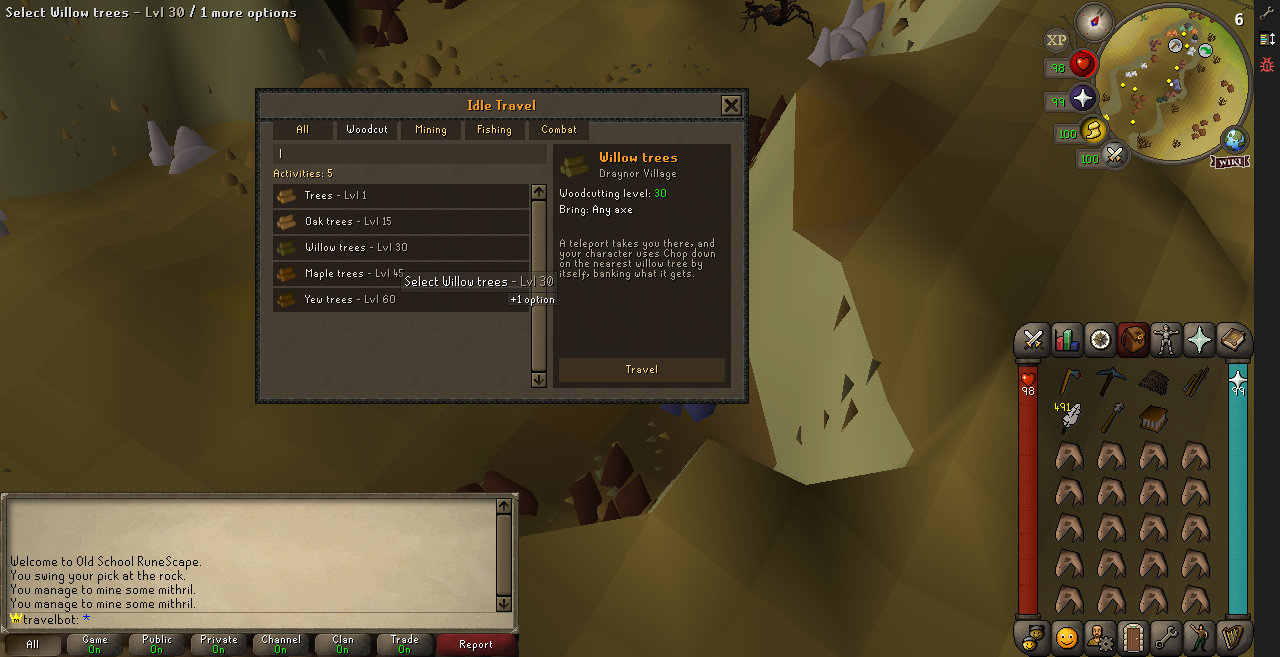
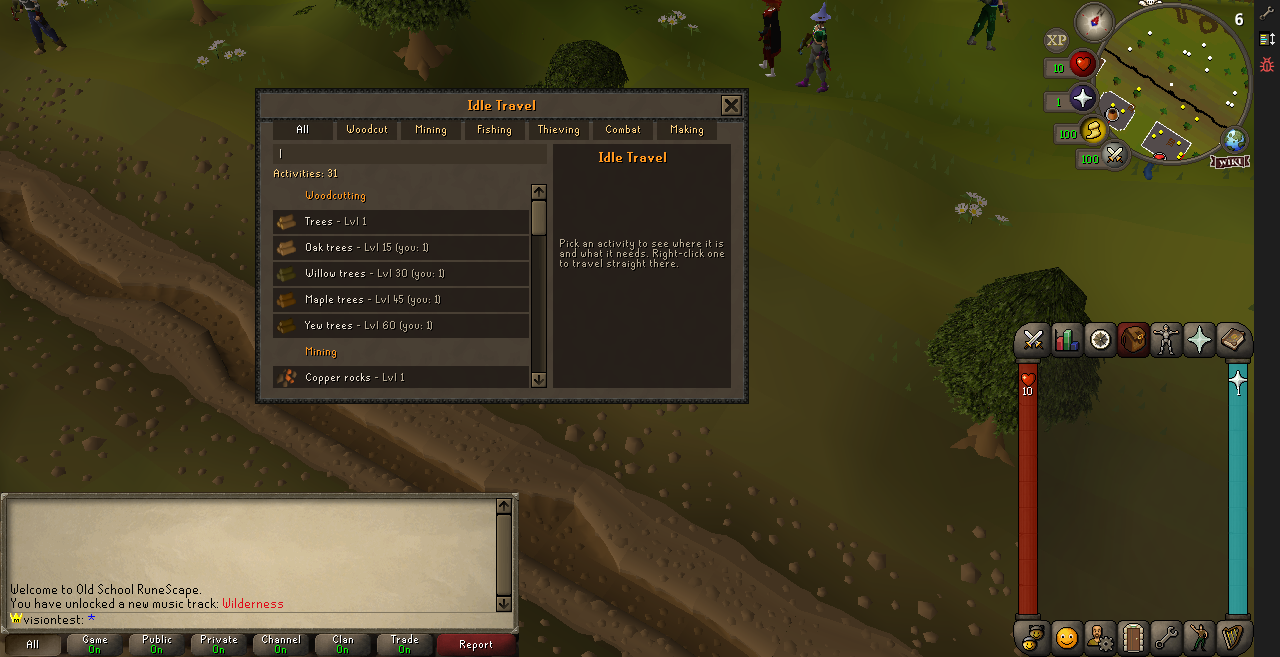
Idle Mode: thieving and firemaking
Thieving is an idle skill: stall thefts and pickpocket loot go to the bank
(coins with no pouch), stalls stay stocked and unwatched, thefts repeat,
and a pickpocketing character eats. Firemaking runs through production:
a line of fires that walks back to a free tile near its start, or a fed
fire that is lit again when it goes out. Five new travel sites and a
Thieving tab.

Claude-Session: https://claude.ai/code/session_018fqrB1SK5m6x8WbXcG8kg4

diff --git a/server/plugins/modes/idle/Production.IdleMode.js b/server/plugins/modes/idle/Production.IdleMode.js
@@ -19,7 +19,8 @@
  *
  * Firemaking makes nothing (`firemaking:success`, a log burnt, counts as a make of none): what the
  * restocks used is what it counts. Logs used on a fire tend it (a Forester's Campfire, `sameObjects`:
- * the fire changes name as it is fed). A tinderbox on logs lights one fire and steps off (a
+ * the fire changes name as it is fed); one tender alone can't keep it lit, so when it has gone out
+ * the character lights another with its tinderbox (`relight`) and feeds that. A tinderbox on logs lights one fire and steps off (a
  * `lineSkills` skill): the next follows as soon as the character stands still, and `lineTiles` from
  * where it started (or on a tile a fire is on) it walks back to a free tile there first.
  */
@@ -132,10 +133,14 @@ function sameObject(name, wanted) {
   return (config().sameObjects ?? []).some((names) => names.includes(name) && names.includes(wanted));
 }
 
+/** The skill's verbs: ["Making", "make"], ["Burning", "burn"] (`verbs`). */
+function verbs(target) {
+  return config().verbs?.[target.skill] ?? ["Making", "make"];
+}
+
 /** What the character is doing: "Making iron bars", "Burning logs". */
 function doing(target) {
-  const verb = config().verbs?.[target.skill] ?? "Making";
-  return `${verb} ${Common.itemName(target.productId).toLowerCase()}`;
+  return `${verbs(target)[0]} ${Common.itemName(target.productId).toLowerCase()}`;
 }
 
 function optionIndex(options, option) {
@@ -204,6 +209,26 @@ function restock(player, target) {
   return { used, missing };
 }
 
+/**
+ * A fire fed logs that has gone out (a campfire burns 3 ticks longer a log, tended every 9): with
+ * the skill's `relight` tool (a tinderbox) in the inventory, the character lights a new one with
+ * the same logs, and feeds that one next.
+ */
+function relight(player, target) {
+  const tool = Common.core.ItemIdentifiers?.[config().relight?.[target.skill]];
+  const toolSlot = Number.isInteger(tool) ? slotOf(player, tool) : -1;
+  const logSlot = slotOf(player, target.usedItemId);
+  if (toolSlot < 0 || logSlot < 0) return false;
+  Common.core.UseItemPacketListener.itemOnItem(player, toolSlot, logSlot);
+  ownUse(player);
+  return true;
+}
+
+/** The use just repeated is not a new one by hand: the target, and where it started, stay. */
+function ownUse(player) {
+  uses.delete(player);
+}
+
 /** Repeats the use as a click would; the creation menu it opens is answered on the next look. */
 function repeat(player, target) {
   const { UseItemPacketListener } = Common.core;
@@ -213,6 +238,7 @@ function repeat(player, target) {
       const withSlot = slotOf(player, target.withItemId);
       if (used < 0 || withSlot < 0) return false;
       UseItemPacketListener.itemOnItem(player, used, withSlot);
+      ownUse(player);
       return true;
     };
     if (!isLine(target) || lineGoesOn(player, target)) return use();
@@ -222,12 +248,13 @@ function repeat(player, target) {
     return true;
   }
   const object = findObject(player, target, target.kind === KIND.OBJECT_OPTION ? target.option : null);
-  if (!object) return false;
+  if (!object) return target.kind === KIND.ITEM_OBJECT && relight(player, target);
   const at = object.getLocation();
   if (target.kind === KIND.ITEM_OBJECT) {
     const slot = slotOf(player, target.usedItemId);
     if (slot < 0) return false;
     UseItemPacketListener.itemOnObject(player, target.interfaceType ?? 0, object.getId(), target.usedItemId, slot, at.getX(), at.getY());
+    ownUse(player);
     return true;
   }
   player.getMovementQueue().walkToObject(object, {
@@ -237,6 +264,7 @@ function repeat(player, target) {
         player, object, objectId: object.getId(), clickType: optionIndex(object.getDefinition().getInteractions(), target.option),
         location: { x: at.getX(), y: at.getY(), z: at.getZ() }, handled: false,
       });
+      ownUse(player);
     },
   });
   return true;
@@ -261,13 +289,13 @@ function lineGoesOn(player, target) {
   return Common.chebyshev(location, target.anchor) < config().lineTiles && !taken(location);
 }
 
-/** Where a line starts again: the first free tile by where it first started, row by row. */
+/** Where a line starts again: the first tile by where it first started, row by row, free to stand and light on. */
 function lineStart(target) {
-  const { Location } = Common.core;
+  const { Location, RegionManager } = Common.core;
   const { x, y, z } = target.anchor;
   for (const dy of [0, 1, -1, 2, -2, 3, -3]) {
     const tile = new Location(x, y + dy, z);
-    if (!taken(tile)) return tile;
+    if (!taken(tile) && RegionManager?.blocked?.(tile, null) !== true) return tile;
   }
   return null;
 }
@@ -331,12 +359,13 @@ function work(player, now) {
   state.chainAt = 0;
   const product = Common.itemName(target.productId).toLowerCase();
   if (state.lastAttemptAt > state.lastProducedAt && ++state.failedAttempts >= maxFailedAttempts) {
-    return pause(player, "stuck", `Idle production has paused: your character can't make ${product} here. Make one to restart it.`);
+    const verb = verbs(target)[1];
+    return pause(player, "stuck", `Idle production has paused: your character can't ${verb} ${product} here. ${verb.charAt(0).toUpperCase()}${verb.slice(1)} one by hand to restart it.`);
   }
   const { used, missing } = restock(player, target);
   Offline.consume(player, target.skill, used);
   if (missing !== null) {
-    return pause(player, "out", `Idle production has paused: you're out of ${Common.itemName(missing).toLowerCase()}. Bank some more and make one to restart it.`);
+    return pause(player, "out", `Idle production has paused: you're out of ${Common.itemName(missing).toLowerCase()}. Bank some more and ${verbs(target)[1]} one by hand to restart it.`);
   }
   if (!Common.readyToWork(player)) return "busy";
   state.lastAttemptAt = now;

diff --git a/server/plugins/modes/idle/Thieving.IdleMode.js b/server/plugins/modes/idle/Thieving.IdleMode.js
@@ -6,7 +6,9 @@
  * - a pickpocket's loot (`thieving:loot`) goes to the bank too, each item as a Thieving gather, so
  *   the offline progress, auto-resume, goals and Bountiful Harvest all count it; coins go straight
  *   in, with no coin pouch to open (and no rogue outfit doubling). Clues stay in the inventory;
- * - stalls stay stocked (`thieving:deplete-stall`);
+ * - stalls stay stocked (`thieving:deplete-stall`), and no owner or guard catches the thief
+ *   (`thieving:stall-watch`, `unseenAtStalls`): a character left alone would otherwise be
+ *   attacked by the guards it can't run from (East Ardougne's kill a low level);
  * - with auto-resume on, each theft that worked is followed by the next, a tick later, while the
  *   player stays put (`thieving:done`). A pickpocket that failed stuns: auto-resume picks it up
  *   after the stun (Auto);
@@ -51,6 +53,11 @@ function keepStall(event) {
   if (!event.handled && config().keepStalls && idleThief(event.player)) event.handled = true;
 }
 
+/** `thieving:stall-watch`: no owner or guard sees an idle thief. */
+function unseen(watch) {
+  if (!watch.unseen && config().unseenAtStalls && idleThief(watch.player)) watch.unseen = true;
+}
+
 /** `thieving:done`: a theft that worked is followed by the next, unless the character must eat first. */
 function again(event) {
   const { player } = event;
@@ -83,8 +90,9 @@ function health(player) {
 module.exports = function attach(api) {
   api.onCustomEvent("thieving:loot", loot);
   api.onCustomEvent("thieving:deplete-stall", keepStall);
+  api.onCustomEvent("thieving:stall-watch", unseen);
   api.onCustomEvent("thieving:done", again);
 };
 
 module.exports.health = health;
-module.exports.handlers = { loot, keepStall, again };
+module.exports.handlers = { loot, keepStall, unseen, again };

diff --git a/server/plugins/modes/IdleMode.plugin.js b/server/plugins/modes/IdleMode.plugin.js
@@ -7,7 +7,8 @@
  * out mid-session keeps going at the rate the player had, paid on the next login (Offline). When
  * the gathering stops, the character walks back to the same kind of tree, rock or spot nearby and
  * starts again (Auto). The same goes for fighting a kind of monster, eating and banking the loot
- * (Combat), and for making things from the bank: cooking, smithing, fletching (Production). Idle XP
+ * (Combat), and for making things from the bank: cooking, smithing, fletching, firemaking
+ * (Production). Idle XP
  * earns points that buy upgrades (Progression). `::idle` opens a screen with
  * all of it and the switches (Screen), and `::idle travel` teleports to an activity's site, where
  * the character starts by itself (Travel, TravelScreen). The first time an account is idle it gets

diff --git a/server/plugins/modes/idle/Account.IdleMode.js b/server/plugins/modes/idle/Account.IdleMode.js
@@ -27,9 +27,14 @@ function login({ player, isNewAccount }) {
   Onboarding.start(player, { fromLogin: true });
 }
 
+/** "a, b and c". */
+function listed(words) {
+  return words.length > 1 ? `${words.slice(0, -1).join(", ")} and ${words.at(-1)}` : words.join("");
+}
+
 function describe(player) {
   return Common.isIdle(player)
-    ? "Idle Mode is on: woodcutting, mining and fishing never stop, and keep going while you are logged out."
+    ? `Idle Mode is on: ${listed(Common.data.skills.map((key) => Common.skillName(key).toLowerCase()))} never stop, and keep going while you are logged out.`
     : "Idle Mode is off. Type ::idle on to turn it on.";
 }
 

diff --git a/docs/idle-mode.md b/docs/idle-mode.md
@@ -34,8 +34,9 @@ It's saved as the attribute `idle-mode:enabled` (off by default).
 
 ## Endless gathering
 
-For an idle account, Woodcutting, Mining and Fishing (`"skills"` in the data) never stop
-(`server/plugins/modes/idle/Gathering.IdleMode.js`):
+For an idle account, Woodcutting, Mining, Fishing and Thieving (`"skills"` in the data) never
+stop (`server/plugins/modes/idle/Gathering.IdleMode.js`, and `Thieving.IdleMode.js` for what is
+Thieving's own, [below](#idle-thieving)):
 
 | Setting (`"gathering"`) | What it does | Event it answers |
 | --- | --- | --- |
@@ -44,6 +45,25 @@ For an idle account, Woodcutting, Mining and Fishing (`"skills"` in the data) ne
 | `fishingSpotsStay` | A fishing spot's random stop is skipped. Spots with their own movement (the minnow platform) still move. | `fishing:spot-stays` (emitted by `Fishing.plugin.js`) |
 | `randomEvents` | `false` keeps random events away from idle accounts. | `random-events:eligibility` |
 | `levelUpPopups` | `false`: an idle account's level-up pop-up does not open and hold the work until Continue (the message, graphic and sounds stay). | the attribute `level-up:keep-actions`, read by `SkillLevelUp.plugin.js`; set with the account flag and on every login |
+
+## Idle thieving
+
+`server/plugins/modes/idle/Thieving.IdleMode.js`, settings in `"thieving"`. Thieving is one of the
+idle `"skills"`, so a stall's theft is a gather like a log (the stall's `storage:gather`, which now
+carries `skill: THIEVING` and the stall's XP): it goes to the bank, counts for the offline
+progress, auto-resume, goals and Bountiful Harvest. Pickpockets and stalls come back by
+auto-resume like a tree, from the click (an NPC's Pickpocket, a stall's Steal-from).
+
+| Setting (`"thieving"`) | What it does | Event it answers |
+| --- | --- | --- |
+| `bankLoot` | A pickpocket's loot goes to the bank, each item as a Thieving gather. Coins go straight in, with no coin pouch to open (so no rogue outfit doubling); clues stay in the inventory. | `thieving:loot` |
+| `keepStalls` | A stall stays stocked. | `thieving:deplete-stall` |
+| `unseenAtStalls` | No owner or guard catches an idle thief at a stall. A character left alone would be attacked by guards it can't run from: East Ardougne's killed a level-5 test character in seconds. | `thieving:stall-watch` |
+| `repeat` | With auto-resume on, a theft that worked is followed by the next a tick later, while the player stays put (the Larcenist relic's way). A failed pickpocket stuns; auto-resume picks it up after the stun, and the stun counts as work, not as a try that went nowhere. | `thieving:done` |
+| `eatBelowPercent` / `stopBelowPercent` | A failed pickpocket hurts: before each one auto-resume eats the first food below `50`% hitpoints, and below `25`% with no food waits to heal, said once. | (auto-resume) |
+
+Checked in game: Lumbridge's men from Thieving level 1 to 5 (eating shrimps), Varrock's tea stall
+and East Ardougne's baker's stall to level 12, the loot in the bank.
 
 ## Offline progress
 
@@ -124,8 +144,8 @@ While you were away for 1h 0m, you kept woodcutting:
 ## Idle production
 
 `server/plugins/modes/idle/Production.IdleMode.js`, settings in `"production"`. Cooking,
-Smithing, Fletching, Crafting and Herblore, through the skills' own flows, so no recipe is
-duplicated here:
+Smithing, Fletching, Crafting, Herblore and Firemaking, through the skills' own flows, so no recipe
+is duplicated here:
 
 - **The target**: the last thing an idle player did by hand that made something
   (`skills:produced`, one of `"skills"`) within `rememberClickSeconds`: an item used on an object
@@ -150,13 +170,30 @@ duplicated here:
   made, takes `consumed` in proportion from the bank, and stops where the first material runs out
   ("until you ran out of raw shrimps"). Bountiful Harvest applies to gathering only.
 
+- **Firemaking** makes nothing: a log burnt (`firemaking:success`) counts as a make of none, so the
+  logs the restocks take are what it counts, online and away (XP, and "using 120 x Logs"). It
+  doesn't count towards items made (goals, achievements). Two ways:
+  - **A line of fires**: a tinderbox on logs (a `lineSkills` skill) lights one and steps off. The
+    next follows as soon as the character stands still (no `stalledSeconds` wait), and once it is
+    `lineTiles` (`12`) from where it started, or on a tile a fire is on, it walks back to the
+    first free tile by the start, row by row. The repeated uses are not new ones by hand, so the
+    start stays put.
+  - **Feeding a fire**: logs used on a fire tend it, all of them. Fed, it becomes a Forester's
+    Campfire (`sameObjects`: the same object to idle production). One tender alone can't keep it
+    lit (a log adds 3 ticks, tending takes 9), so when it has gone out the character lights
+    another with the loadout's tinderbox (`relight`) and feeds that one.
+  The Idle screen says "Burning logs" (`verbs`).
+
 Checked in game: willow shortbows (u) from logs, lobsters on Al Kharid's range, iron bars at its
-furnace, online and two minutes offline. Not covered yet: smithing at an anvil (its interface is
-not the creation menu), firemaking and thieving.
+furnace, online and two minutes offline; firemaking at the Grand Exchange, a line back and forth
+and a fed fire lit again, until the bank's logs ran out. Not covered yet: smithing at an anvil
+(its interface is not the creation menu).
 
 | Setting (`"production"`) | Default |
 | --- | --- |
-| `skills` | Cooking, Smithing, Fletching, Crafting, Herblore |
+| `skills` | Cooking, Smithing, Fletching, Crafting, Herblore, Firemaking |
+| `lineSkills` / `lineTiles` | Firemaking / `12` |
+| `relight` | Firemaking: `TINDERBOX` |
 | `restartAfterSeconds` | `6` |
 | `stalledSeconds` | `20` |
 | `retrySeconds` | `4` |
@@ -388,7 +425,8 @@ one there and starts at once. Travelling turns auto-resume on.
   icon, tool, members? }`. `target` is the cache's name (an `npc-spawns.json` name can differ:
   "Al Kharid warrior"). `server/tests/idle-travel-sites.test.cjs` checks every one against the
   cache map: its tile is free to stand on and at least two targets with its option are within the
-  reach auto-resume or idle combat searches from it.
+  reach auto-resume or idle combat searches from it (one for a station or a stall, which stays
+  stocked). A **Thieving** tab lists the thieving sites.
 
 ![Arrived at Draynor's willows](images/idle-travel-arrived.png)
 
@@ -415,11 +453,16 @@ one there and starts at once. Travelling turns auto-resume on.
 | `barbarians` | Barbarians | Barbarian Village | Combat | 10 (advised) |
 | `al-kharid-warriors` | Al Kharid warriors | Al Kharid palace | Combat | 15 (advised) |
 | `hill-giants` | Hill Giants | Edgeville Dungeon | Combat | 30 (advised) |
+| `lumbridge-men` | Men | Lumbridge | Thieving | 1 |
+| `varrock-tea-stall` | Tea stall | Varrock, east | Thieving | 5 |
+| `ardougne-bakers-stall` | Baker's stall | East Ardougne market (members) | Thieving | 5 |
+| `ardougne-silk-stall` | Silk stall | East Ardougne market (members) | Thieving | 20 |
 | `al-kharid-range` | Cooking range | Al Kharid, by the bank | Cooking | any |
 | `catherby-range` | Cooking range | Catherby, by the bank (members) | Cooking | any |
 | `al-kharid-furnace` | Furnace | Al Kharid, by the bank | Smithing | any |
 | `edgeville-furnace` | Furnace | Edgeville, by the bank (members) | Smithing | any |
 | `al-kharid-crafting` | Fletching, crafting, herblore | Al Kharid bank | Fletching | any |
+| `grand-exchange-firemaking` | Firemaking | Grand Exchange, south entrance (five open rows) | Firemaking | any |
 
 ## Roadmap
 

diff --git a/IDLE_GAME.md b/IDLE_GAME.md
@@ -77,13 +77,20 @@ Na primeira vez que uma conta fica idle (conta nova num mundo idle, ou o primeir
 5. **Combate idle**: ataque e mate um monstro, e o personagem continua atacando os do mesmo tipo
    por perto. Ele come quando a vida fica abaixo de 50%, revida quando é atacado e manda os drops
    pro banco. Também conta para o progresso offline.
-6. **Produção idle** (Cooking, Smithing, Fletching, Crafting, Herblore): faça uma vez à mão
-   (cru no fogão, faca no tronco, minério na fornalha) e escolha o produto. O personagem continua
-   sozinho: guarda os produtos no banco, pega mais material do banco e repete, até o material
-   acabar. Offline, gasta o material do banco no mesmo ritmo.
-7. **Viagem até a atividade**: na tela `::idle travel` (ou no botão Travel da tela idle), escolha
-   entre 26 locais (árvores, minas, pesca, monstros e, na aba Making, fogões, fornalhas e um
-   banco pra produção, de Lumbridge a Karamja). O personagem
+6. **Produção idle** (Cooking, Smithing, Fletching, Crafting, Herblore, Firemaking): faça uma vez
+   à mão (cru no fogão, faca no tronco, minério na fornalha) e escolha o produto. O personagem
+   continua sozinho: guarda os produtos no banco, pega mais material do banco e repete, até o
+   material acabar. Offline, gasta o material do banco no mesmo ritmo.
+   - **Firemaking**: tinderbox nas toras faz uma linha de fogueiras; ao se afastar 12 tiles do
+     início, ele volta para um tile livre e recomeça. Toras numa fogueira alimentam a fogueira;
+     quando ela apaga (uma pessoa sozinha não a mantém acesa), ele acende outra com a tinderbox.
+7. **Thieving idle**: bata carteira (Pickpocket) ou roube de uma barraca (Steal-from) uma vez e o
+   personagem continua sozinho. O saque vai pro banco (moedas direto, sem coin pouch), as barracas
+   não se esvaziam e nenhum guarda pega um ladrão idle (os de Ardougne matariam um personagem
+   sozinho). Ao bater carteira ele come quando a vida cai abaixo de 50%.
+8. **Viagem até a atividade**: na tela `::idle travel` (ou no botão Travel da tela idle), escolha
+   entre 31 locais (árvores, minas, pesca, thieving, monstros e, na aba Making, fogões, fornalhas,
+   um banco pra produção e o Grand Exchange pra firemaking, de Lumbridge a Karamja). O personagem
    teleporta e já começa a trabalhar sozinho. Locais de coleta pedem o nível da skill.
 
 ![A tela de viagem](docs/images/idle-travel.png)

diff --git a/IDLE_ROADMAP.md b/IDLE_ROADMAP.md
@@ -80,7 +80,8 @@ Uma moeda própria do jogo idle, separada dos pontos de melhoria.
       usando os materiais do banco (testado no jogo: cozinhar, fundir e fletching, online e offline)
 - [x] **Locais de viagem para produção**: aba Making com fogões (Al Kharid, Catherby), fornalhas
       (Al Kharid, Edgeville) e o banco de Al Kharid
-- [ ] **Firemaking e Thieving idle** (não passam pela janela de quantidade; precisam de um ciclo próprio)
+- [x] **Firemaking e Thieving idle**: linha de fogueiras ou alimentar fogueira (reacende sozinho);
+      bater carteira e barracas, com o saque no banco, aba Thieving na viagem (testado no jogo)
 - [ ] **Smithing na bigorna** (a tela de forjar não é a janela de quantidade; ainda não é repetida)
 - [ ] **Mais locais de viagem**, incluindo áreas de membros
 - [ ] **Equilíbrio**: revisar taxas offline, limite de horas, preços das melhorias e quanto o
